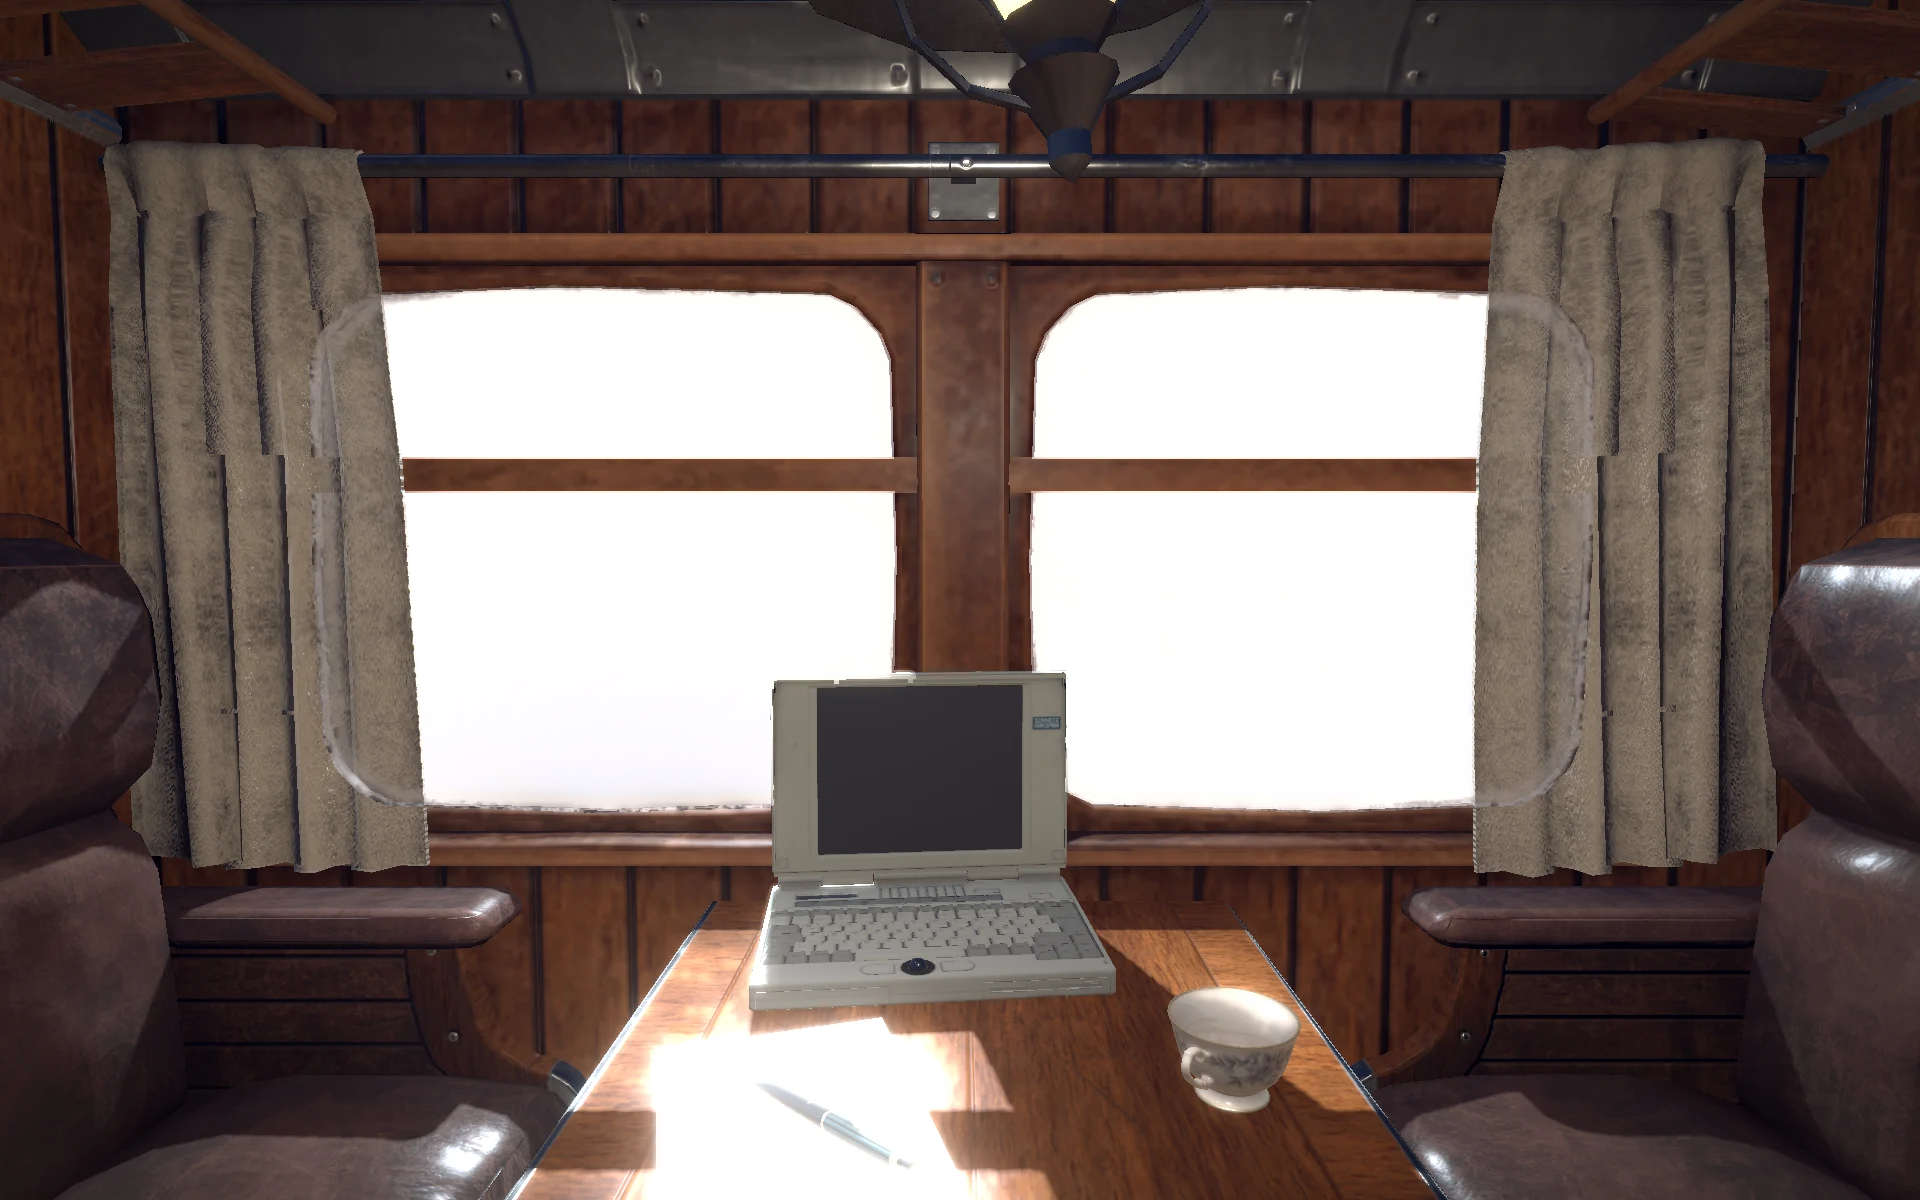
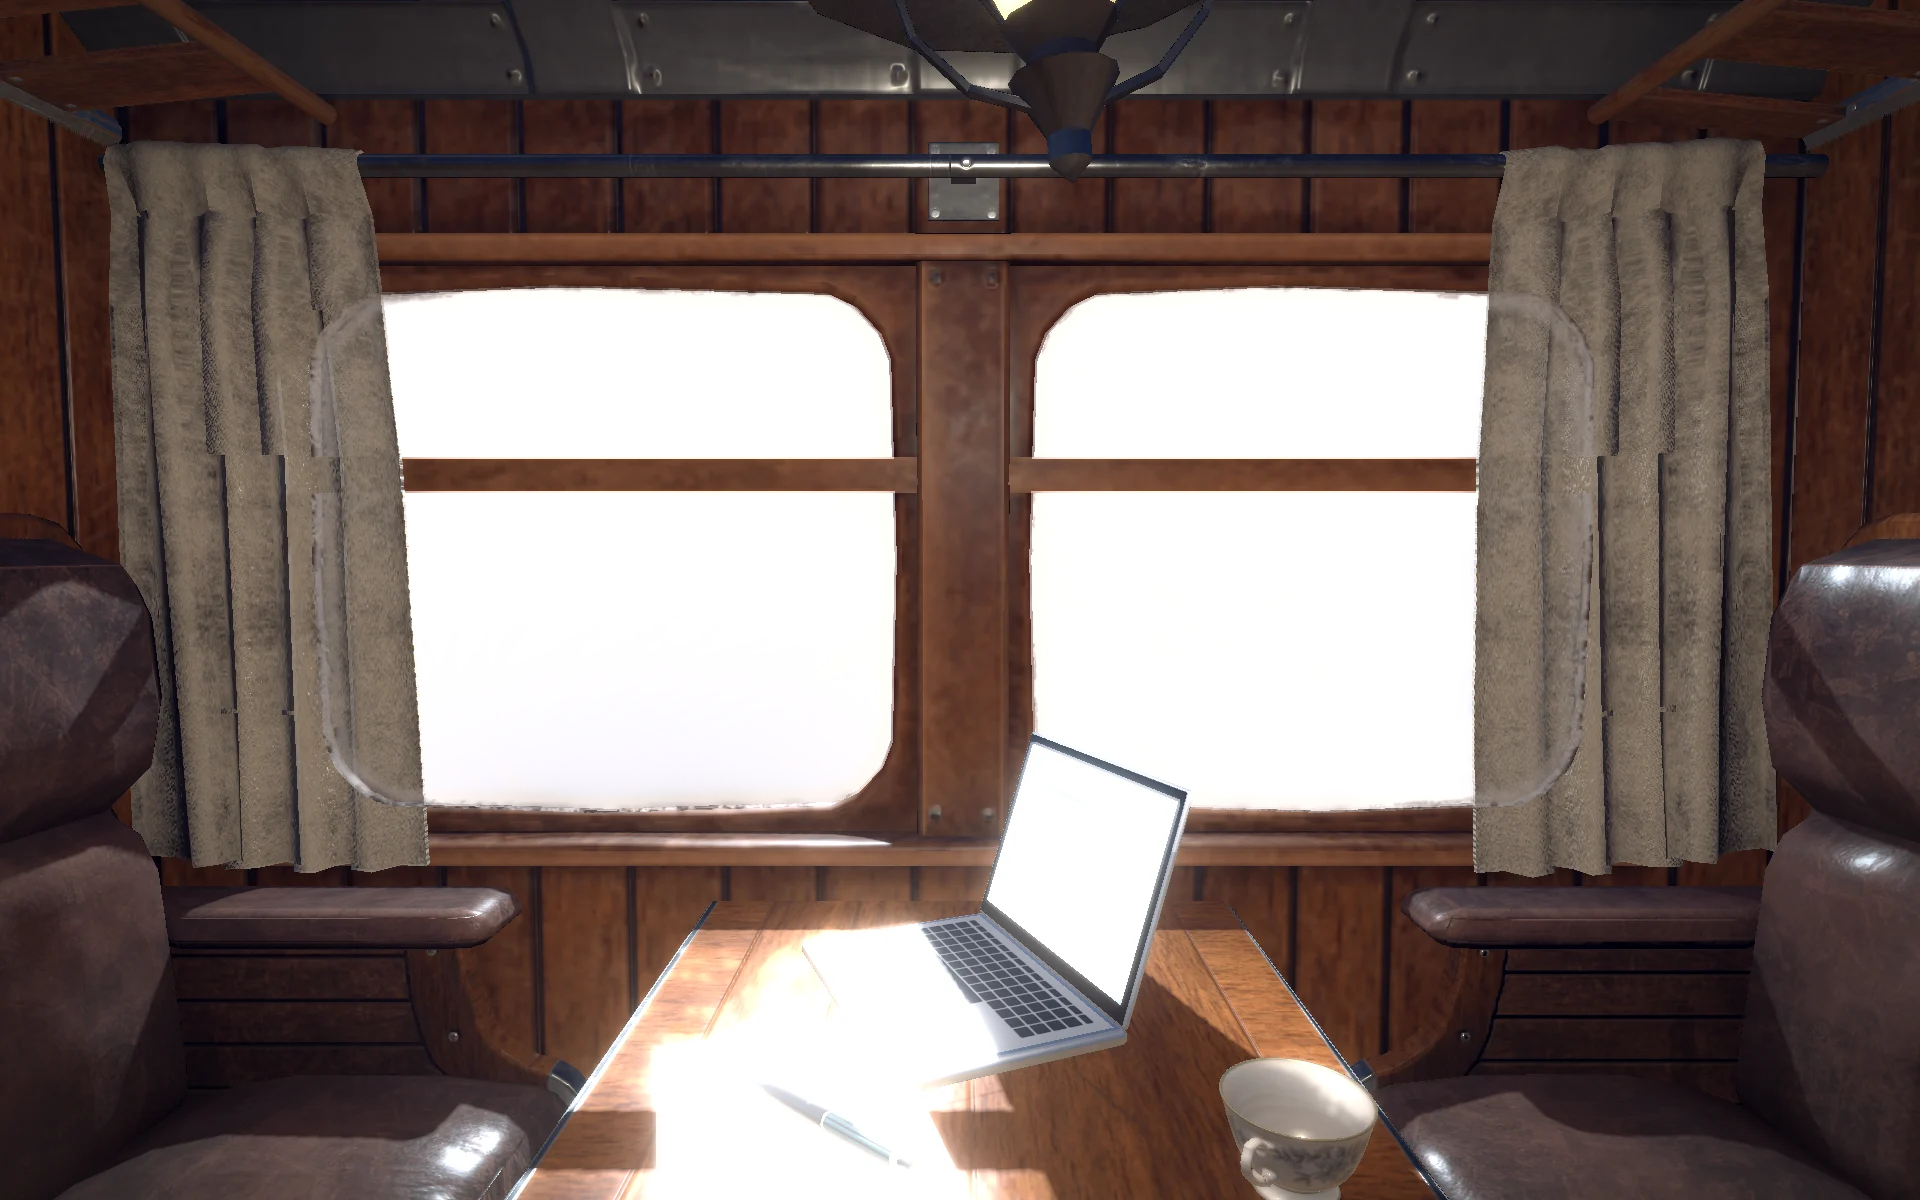
雪国线 ride: a modern thin aluminium laptop, open and turned to the left-hand seat as if someone is working there; the steam follows the cup to its new place
Claude-Session: https://claude.ai/code/session_01ScX6WKwjvGxQ2unMJchHBc

Changed region(s): [[0.375, 0.555, 0.7188, 1.0]]

diff --git a/ride.js b/ride.js
@@ -45,7 +45,7 @@
   const sc = document.createElement("canvas"), sg = sc.getContext("2d");
 
   // steam off the coffee: soft puffs rising from the rim, curling, thinning out
-  const CUP = { x: 1027, y: 832 }, puffs = [];
+  const CUP = { x: 1080, y: 888 }, puffs = [];
   const puffImg = document.createElement("canvas"); puffImg.width = puffImg.height = 64;
   { const p = puffImg.getContext("2d"), gr = p.createRadialGradient(32, 32, 0, 32, 32, 32); gr.addColorStop(0, "rgba(255,255,255,.55)"); gr.addColorStop(.5, "rgba(250,250,248,.2)"); gr.addColorStop(1, "rgba(250,250,248,0)"); p.fillStyle = gr; p.fillRect(0, 0, 64, 64); }
   let puffT = 0;

diff --git a/NOTICE.md b/NOTICE.md
@@ -28,4 +28,4 @@ animation removed, textures converted to WebP, the mesh compressed (meshopt). It
 own Sketchfab scene settings; `assets/3d/sky_day.hdr` is decoded from Sketchfab's default environment "Gareoult" for that purpose.
 The forest outside the window (`assets/3d/snow_forest.jpg`) is cut from **snowy_forest_path_01** by Poly Haven (CC0).
 
-On the table in the ride still: **classic_laptop**, **tea_set_01** (a cup), **office_notepads** and **stationery_supplies** (a pen), all Poly Haven (CC0).
+On the table in the ride still: a modern laptop modelled for this scene, **tea_set_01** (a cup), **office_notepads** and **stationery_supplies** (a pen), all Poly Haven (CC0).
